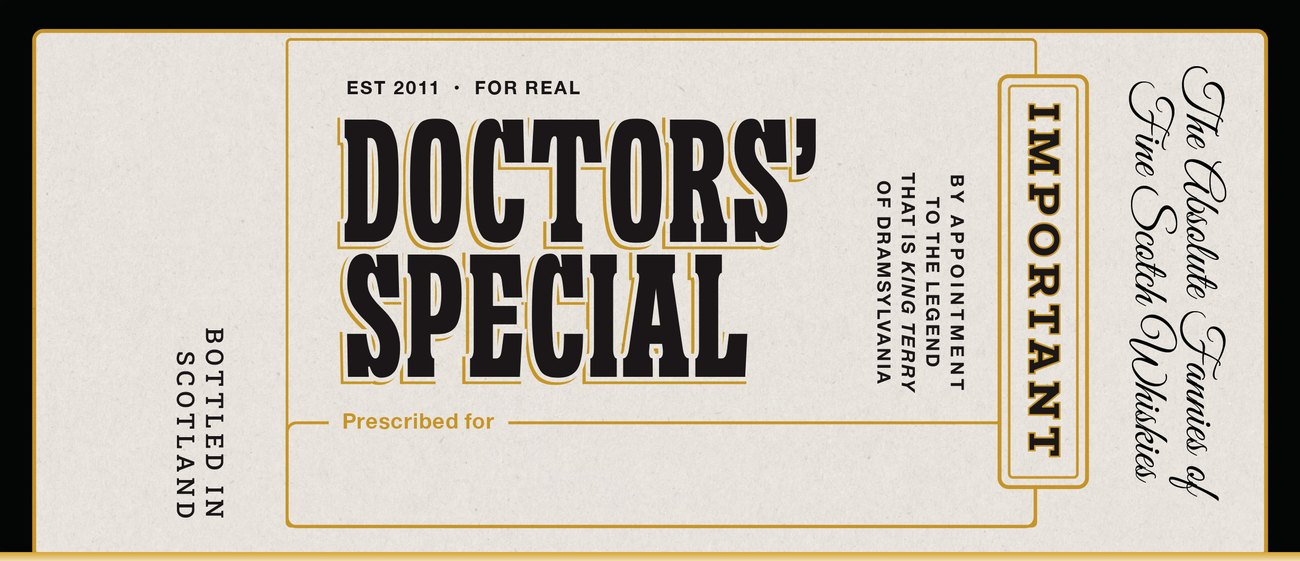
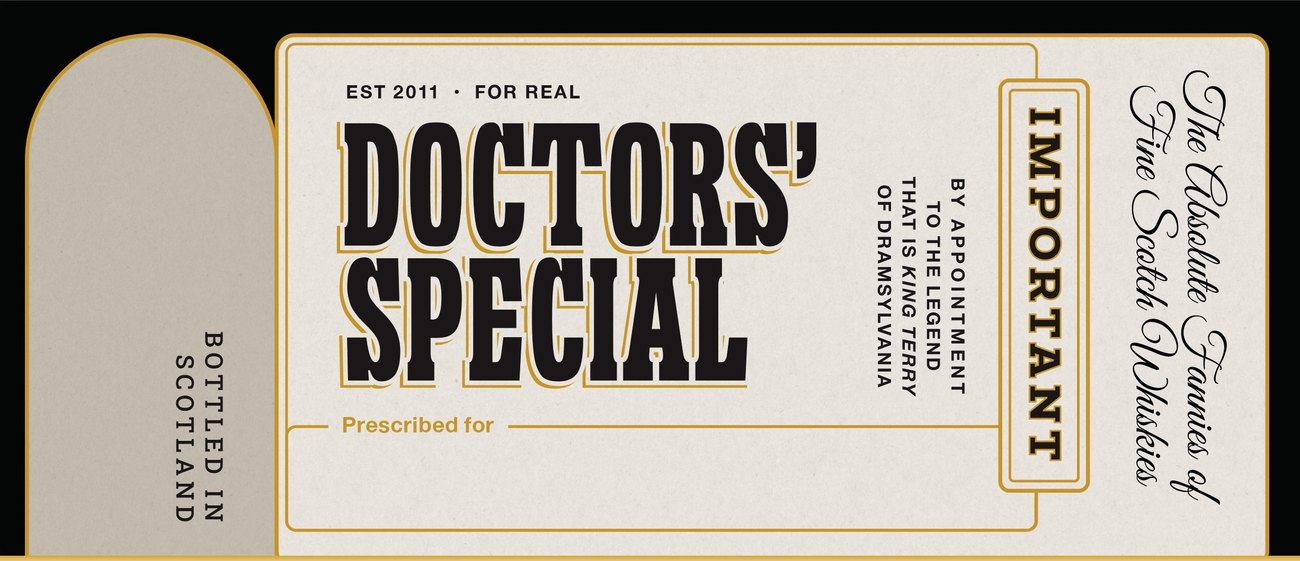
Doctors' Special: Andrew's redesigned artwork (grey arched left panel); name back to top 181
The new art lowers the "Prescribed for" box again (to about its original height),
so the name box goes 179 -> 181 to keep the mock-up's spacing (measured 14 / 26px,
mock 13.9 / 25.9). Order reference checked: still readable under "Bottled in
Scotland", now on the grey panel. Preview copy regenerated; data-av 23 -> 24.

diff --git a/assets/wb-label.css b/assets/wb-label.css
@@ -371,8 +371,8 @@ body.wb-tpl-new .size50 .wb-stock { top: 260px; }              /* taller die: 89
 #page.doctorsspecial .wb-ds-box {
   display: flex;
   position: absolute;
-  top: 179px; left: 142px; width: 280px; height: 40px;   /* 183/140 until 18 Oct: matched to Andrew's mock-up, then -2/-1 when the
-                                                           18 Oct artwork moved its "Prescribed for" box up 1.7px */
+  top: 181px; left: 142px; width: 280px; height: 40px;   /* 183/140 until 18 Oct; matched to Andrew's mock-up and to the
+                                                           "Prescribed for" box in the current art (measure if the art changes) */
   align-items: center;
   justify-content: flex-start;
   white-space: nowrap;

diff --git a/assets/wb-single-malt.js b/assets/wb-single-malt.js
@@ -68,7 +68,7 @@
     var isDoctors    = productSlug === 'doctorsspecial';
     var DS_FONT      = '"Playwrite AU NSW", cursive';   /* was Homemade Apple (Andrew, 18 Oct) */
     var DS_INK       = '#231f20';
-    var DS_NAME_BOX  = { top: 179, left: 142, width: 280, height: 40 };
+    var DS_NAME_BOX  = { top: 181, left: 142, width: 280, height: 40 };
     var DS_FONT_SIZE = 18;   /* fixed — no fit; length capped instead */
     var DS_FONT_EXTRA = 'font-feature-settings:&quot;calt&quot; 0;letter-spacing:-0.075em';   /* unjoined letters, as wb-label.css */
     var DS_MAX_CHARS = 24;
